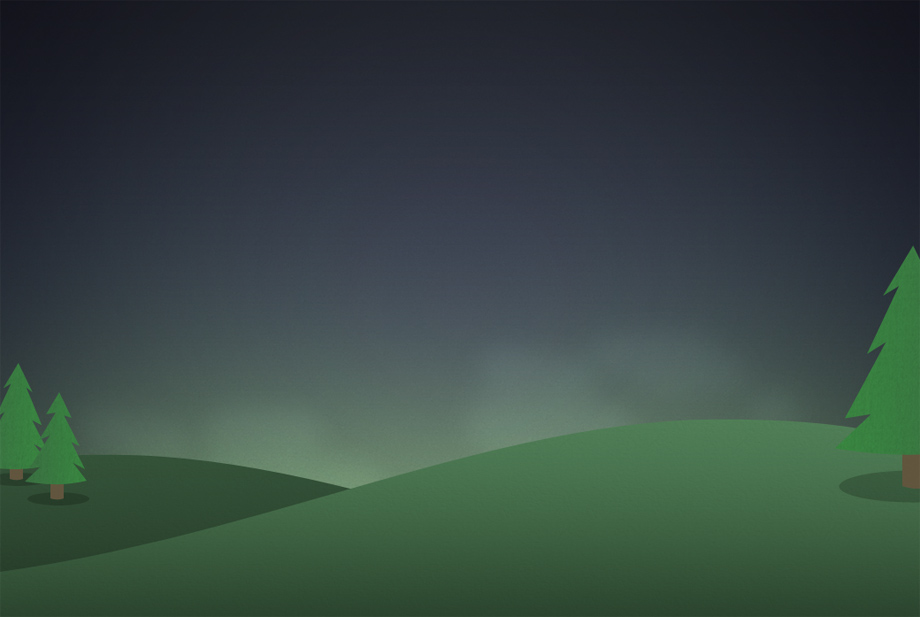
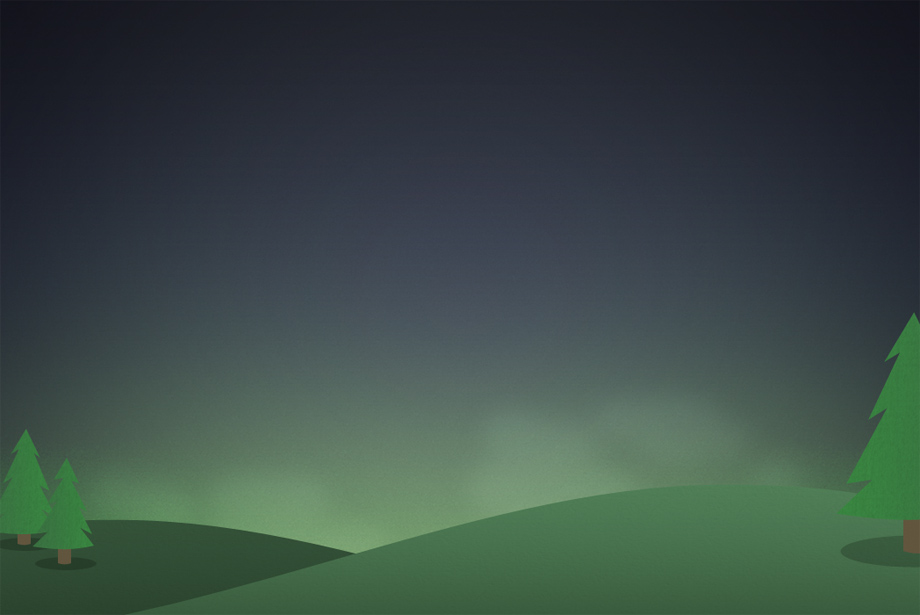
Fg/bg adjustments

Changed region(s): [[0.0, 0.587, 0.7609, 0.9268], [0.1522, 0.9268, 1.0, 1.0], [0.8217, 0.4016, 1.0, 0.8959]]

diff --git a/css/main.css b/css/main.css
@@ -19,9 +19,9 @@ body{
 	height: 580px;
 	background-image: url(../images/canvasbackground.jpg);
 
-	background-color:#1c1f27;
+	background-color:#12131b;
 	background-repeat: no-repeat;
-	background-position: 0px 50px;
+	background-position: 0px 0px;
 }
 
 #canvas_fg{
@@ -35,7 +35,7 @@ body{
 	pointer-events:none;
 	background-image: url(../images/canvasforeground.png);
 	background-repeat: no-repeat;
-	background-position: 0px 50px;
+	background-position: 0px 0px;
 }
 
 /* WebGL unsupported notification */
